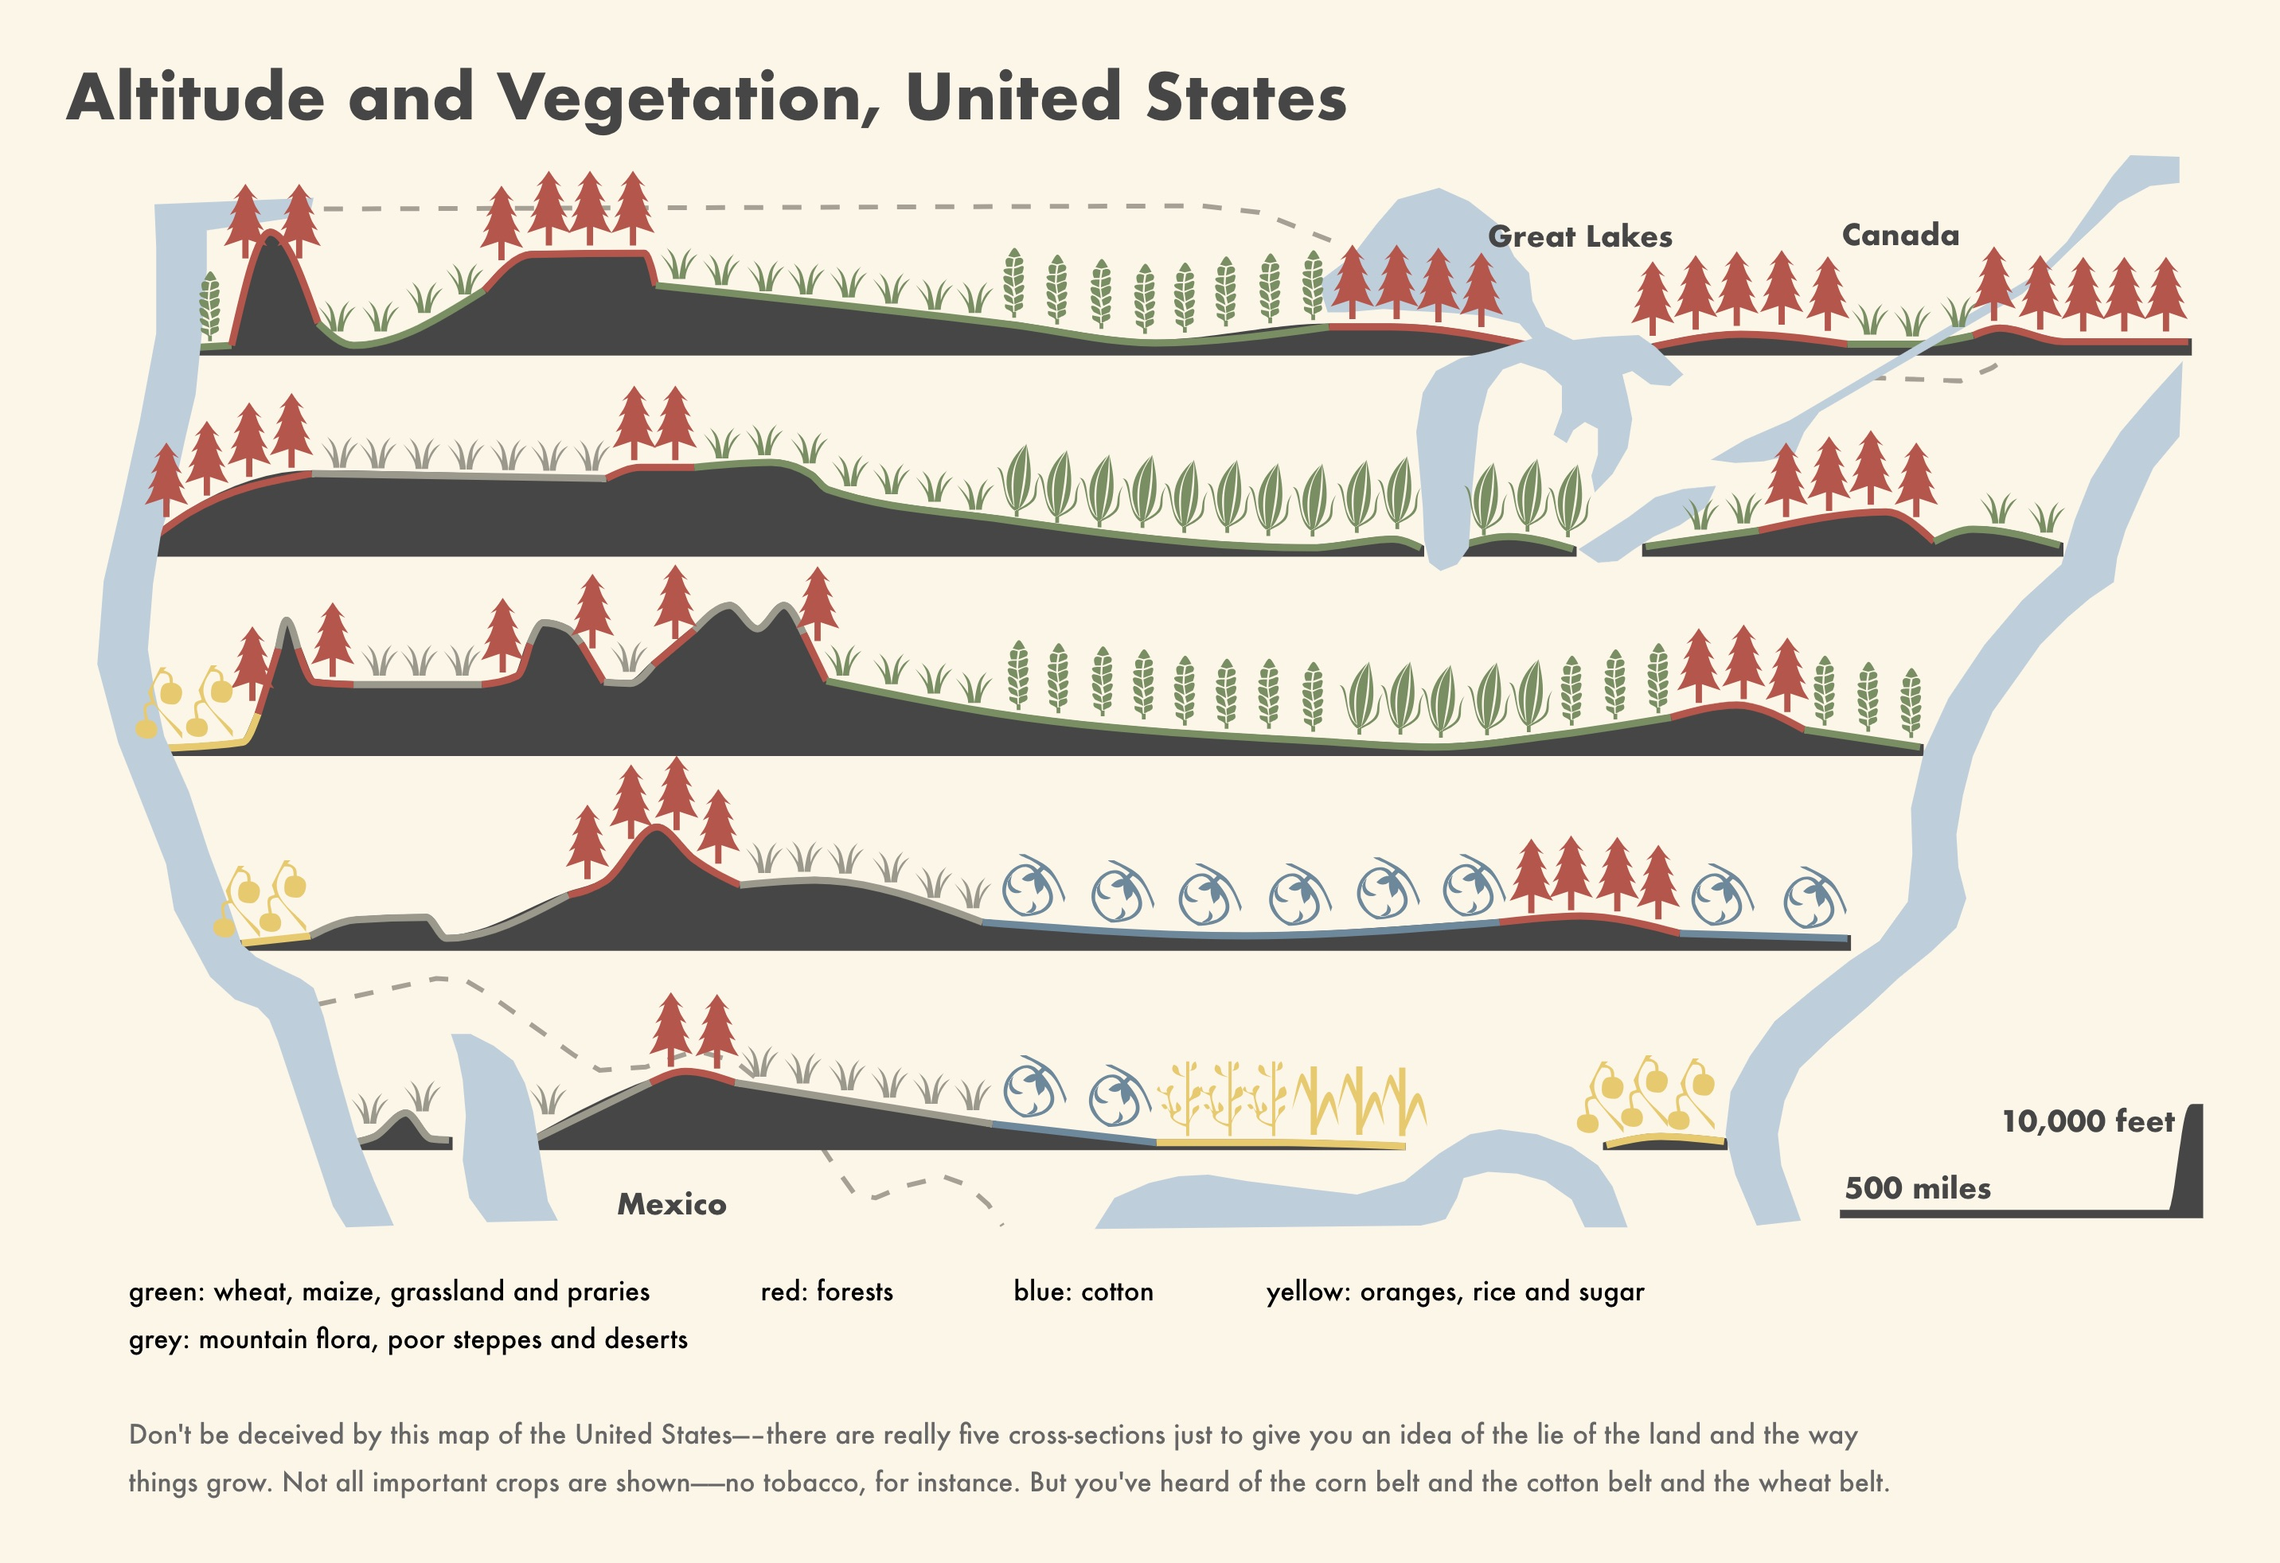
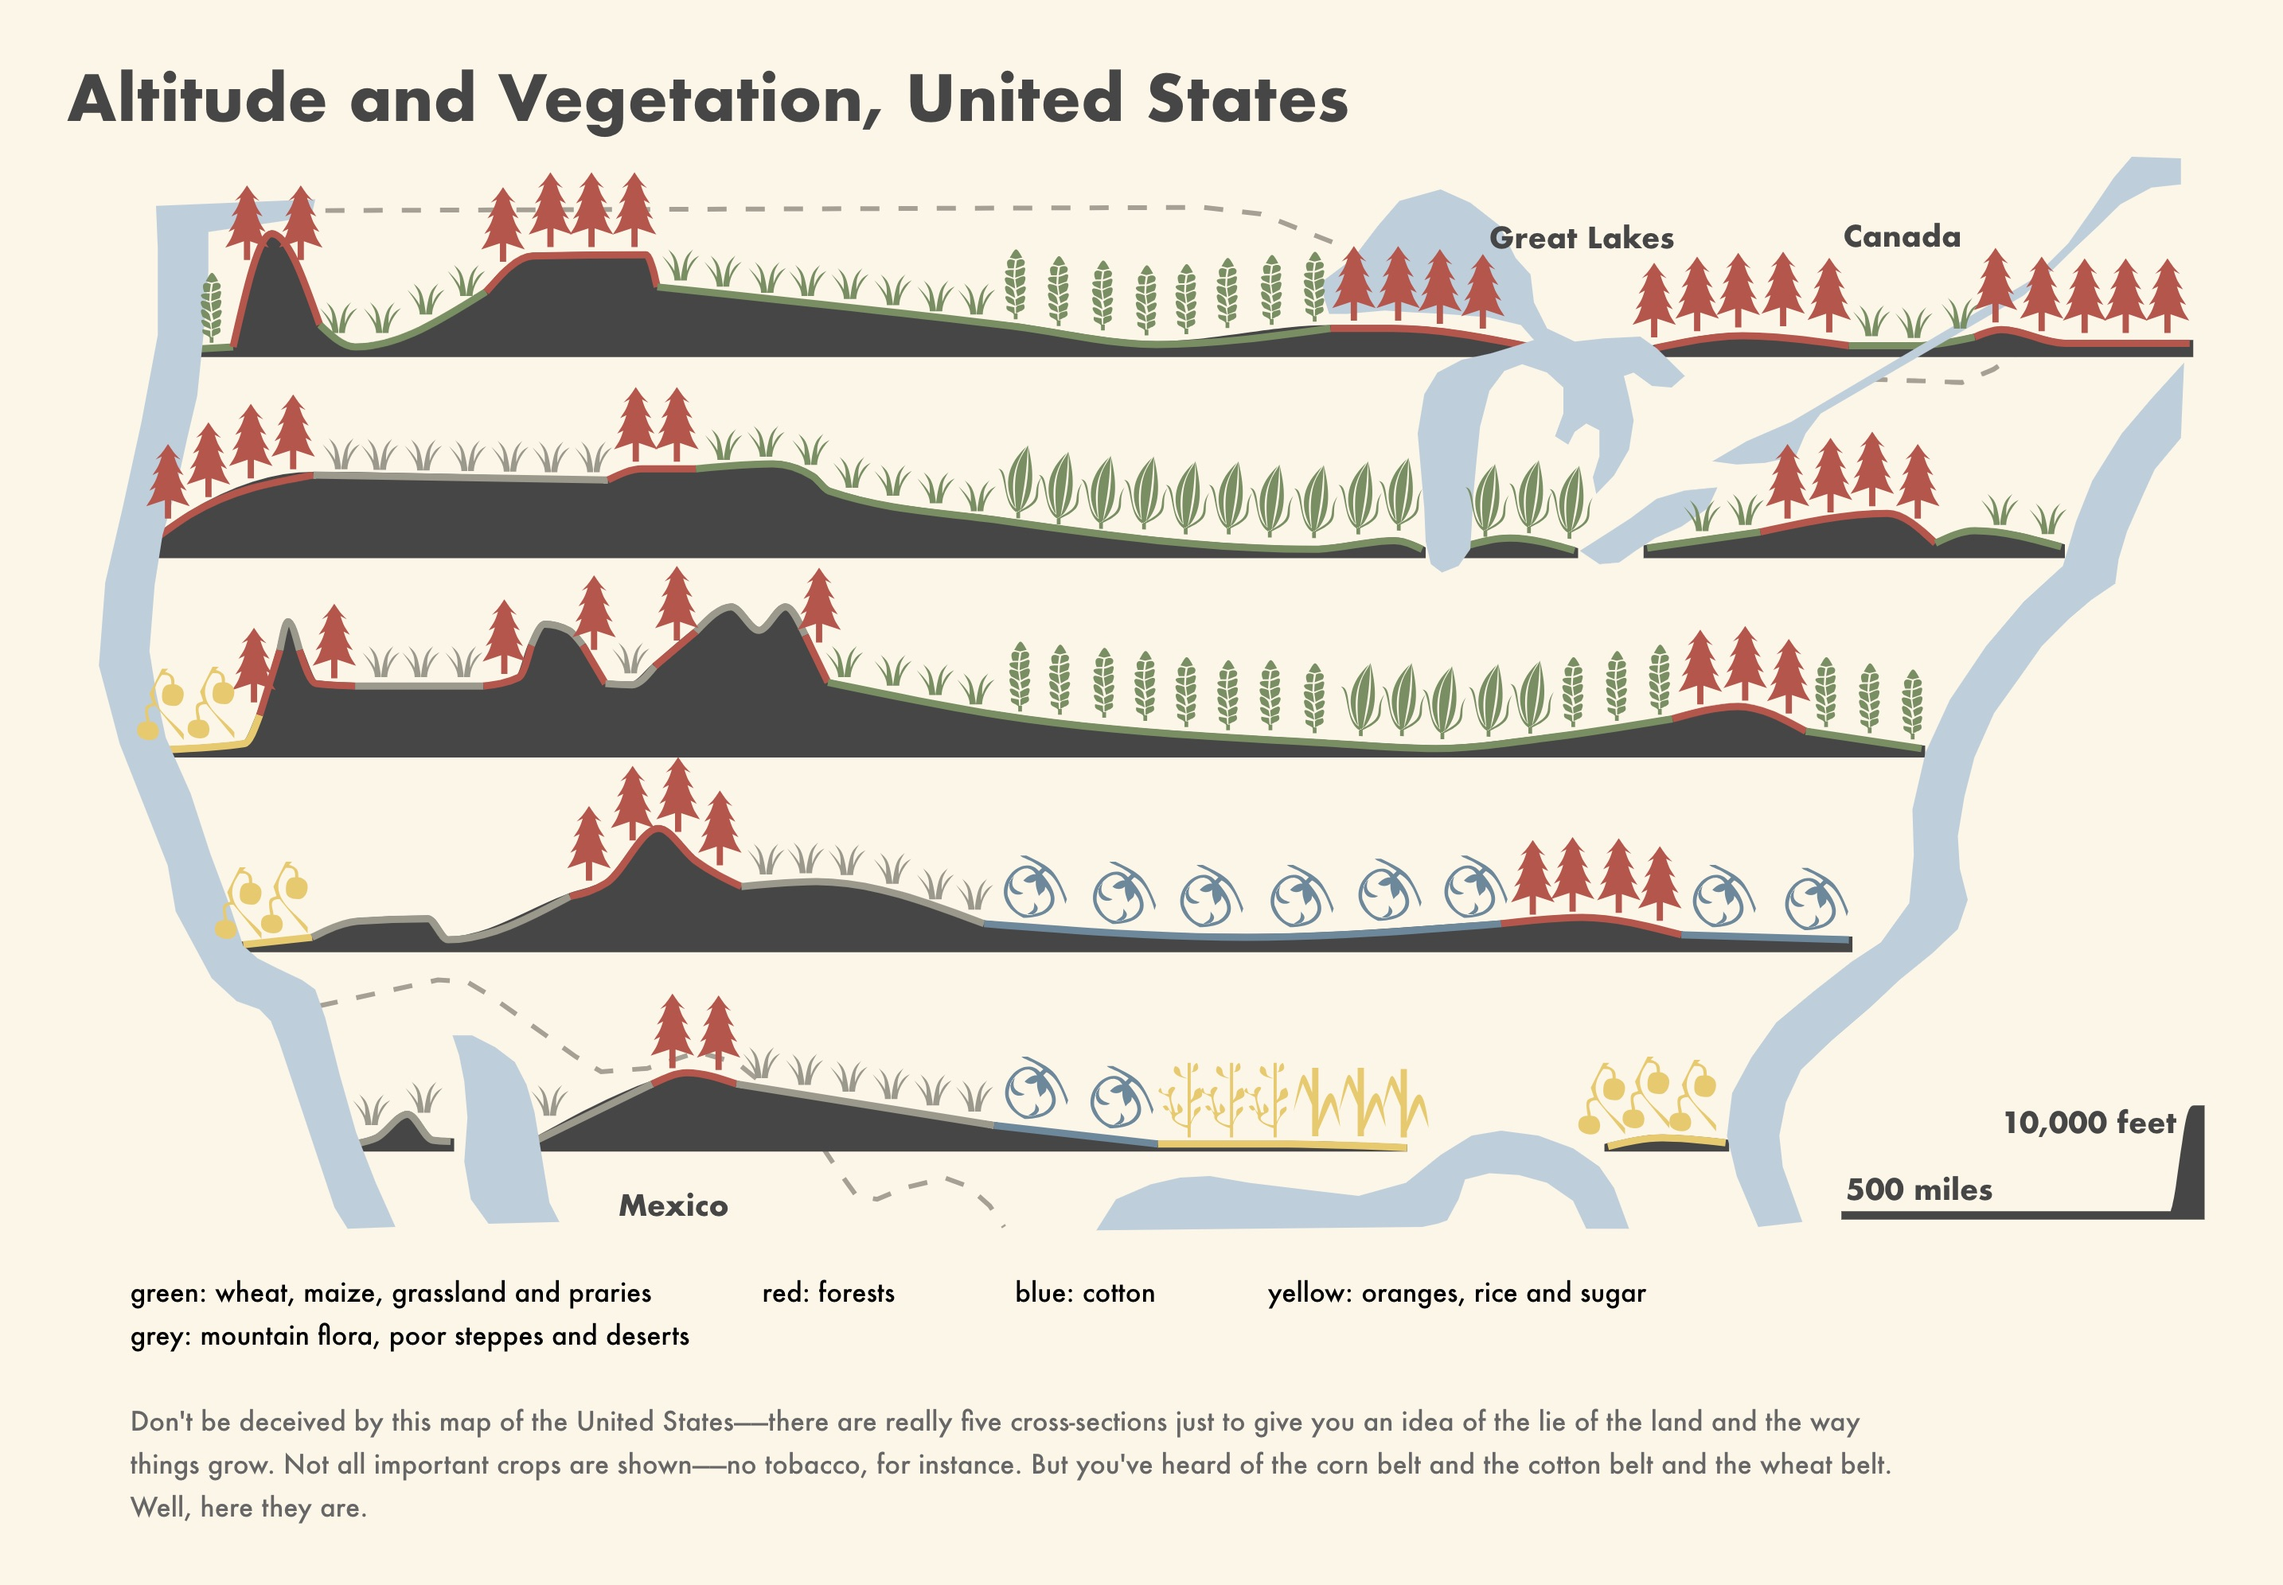
Update cropped image

diff --git a/d27Resources.md b/d27Resources.md
@@ -29,7 +29,7 @@ Map of [Altitude and Vegetation across the United States](http://www.thomwhite.c
 
 ## Map Design
 
-```elm {l}
+```elm {v}
 isotype : Spec
 isotype =
     let
@@ -219,7 +219,7 @@ isotype =
             dataFromColumns []
                 << dataColumn "x" (nums [ 100, 1100, 1500, 1900, 100, 100, 100, 100 ])
                 << dataColumn "y" (nums [ 100, 100, 100, 100, 90, 70, 60, 50 ])
-                << dataColumn "weight" (strs [ "b", "b", "b", "b", "b", "n", "n" ])
+                << dataColumn "weight" (strs [ "b", "b", "b", "b", "b", "n", "n", "n" ])
                 << dataColumn "label"
                     (strs
                         [ "green: wheat, maize, grassland and praries"
@@ -227,7 +227,7 @@ isotype =
                         , "blue: cotton"
                         , "yellow: oranges, rice and sugar"
                         , "grey: mountain flora, poor steppes and deserts"
-                        , "Don't be deceived by this map of the United States—–there are really five cross-sections just to give you an idea of the lie of the land and the way"
+                        , "Don't be deceived by this map of the United States——there are really five cross-sections just to give you an idea of the lie of the land and the way"
                         , "things grow.  Not all important crops are shown——no tobacco, for instance.  But you've heard of the corn belt and the cotton belt and the wheat belt."
                         , "Well, here they are."
                         ]
@@ -253,7 +253,7 @@ isotype =
         textSpec =
             asSpec
                 [ width 900
-                , height 80
+                , height 90
                 , textData []
                 , textEnc []
                 , textMark [ maAlign haLeft, maFont "Futura" ]
